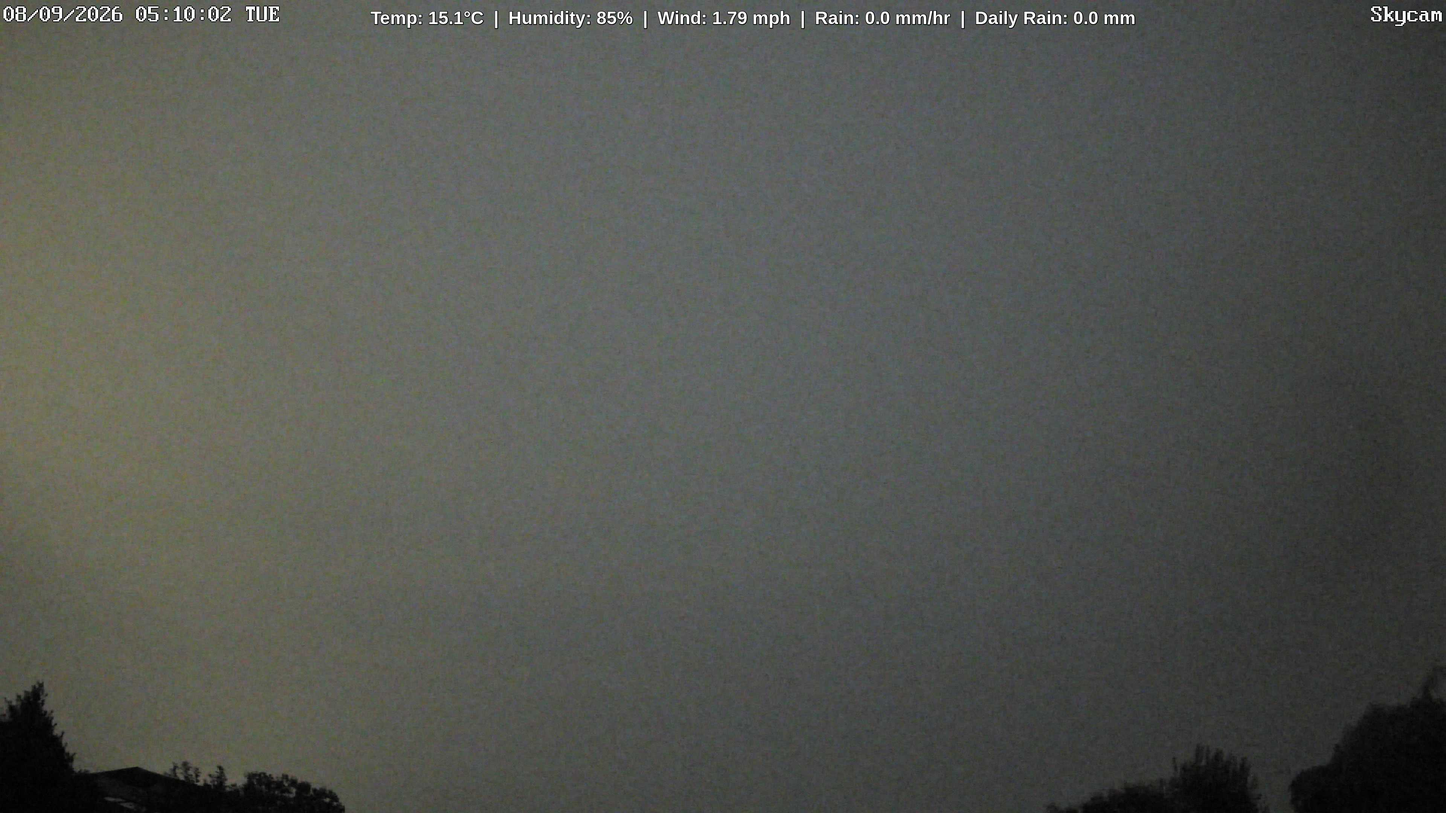
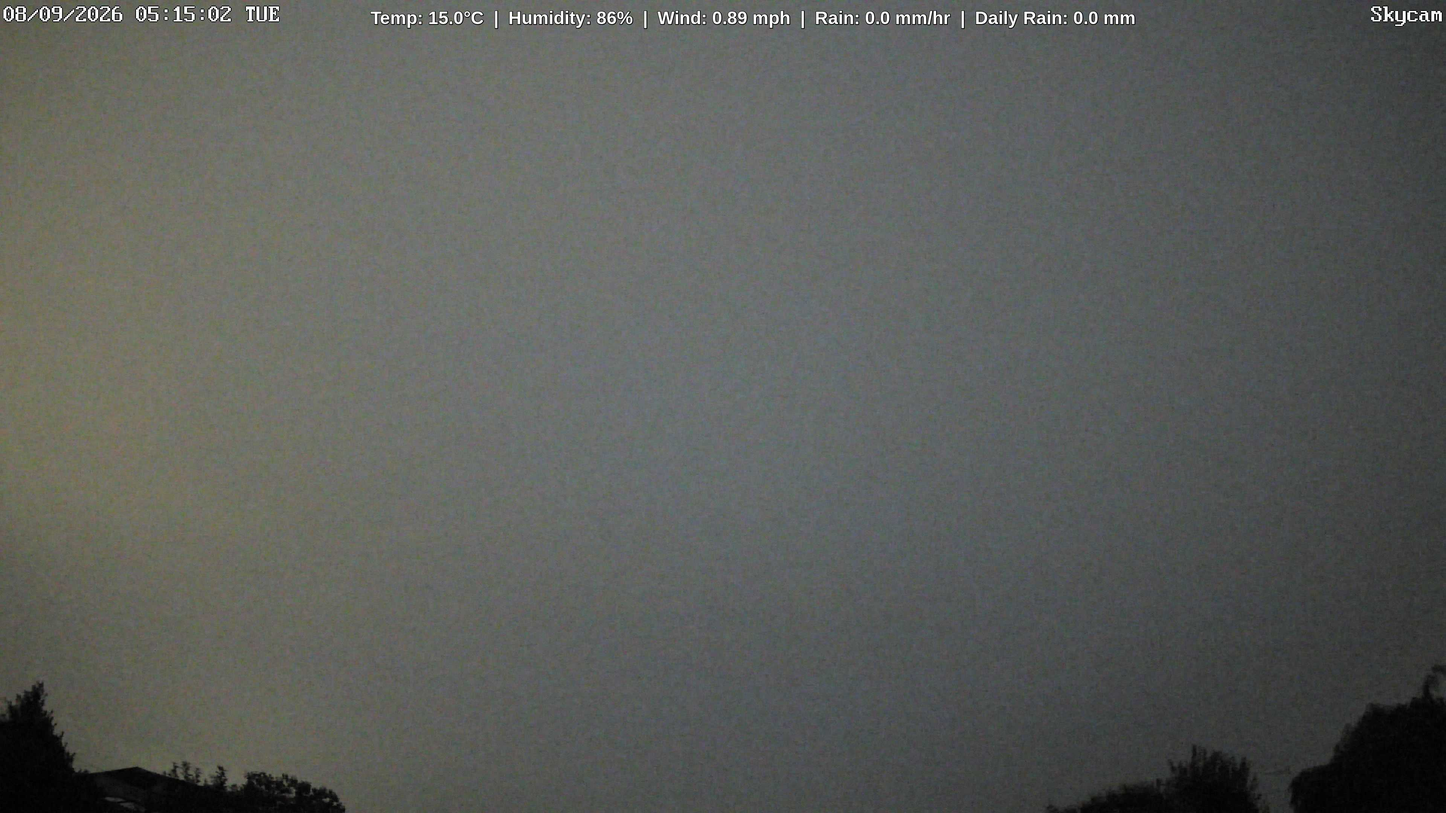
Update weather cam image with synchronized dual-layer weather metrics

Changed region(s): [[0.4688, 0.0, 0.5312, 0.031], [0.3125, 0.0, 0.3438, 0.031], [0.125, 0.0, 0.1562, 0.031]]

diff --git a/index.html b/index.html
@@ -32,7 +32,7 @@
 </head>
 <body>
     <img id="weathercam" alt="Live Weather Snapshot">
-    <div class="banner">Temp: 15.1°C  |  Humidity: 85%  |  Wind: 1.79 mph  |  Rain: 0.0 mm/hr  |  Daily Rain: 0.0 mm</div>
+    <div class="banner">Temp: 15.0°C  |  Humidity: 86%  |  Wind: 0.89 mph  |  Rain: 0.0 mm/hr  |  Daily Rain: 0.0 mm</div>
 
     <script>
         // Shatter mobile cache engines by appending a live unique runtime timestamp 
